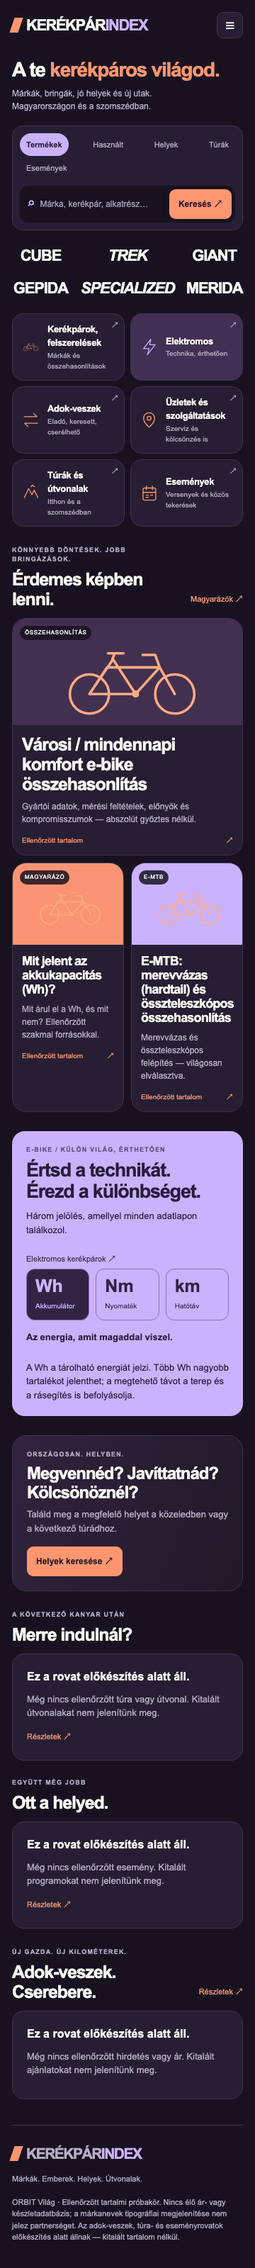
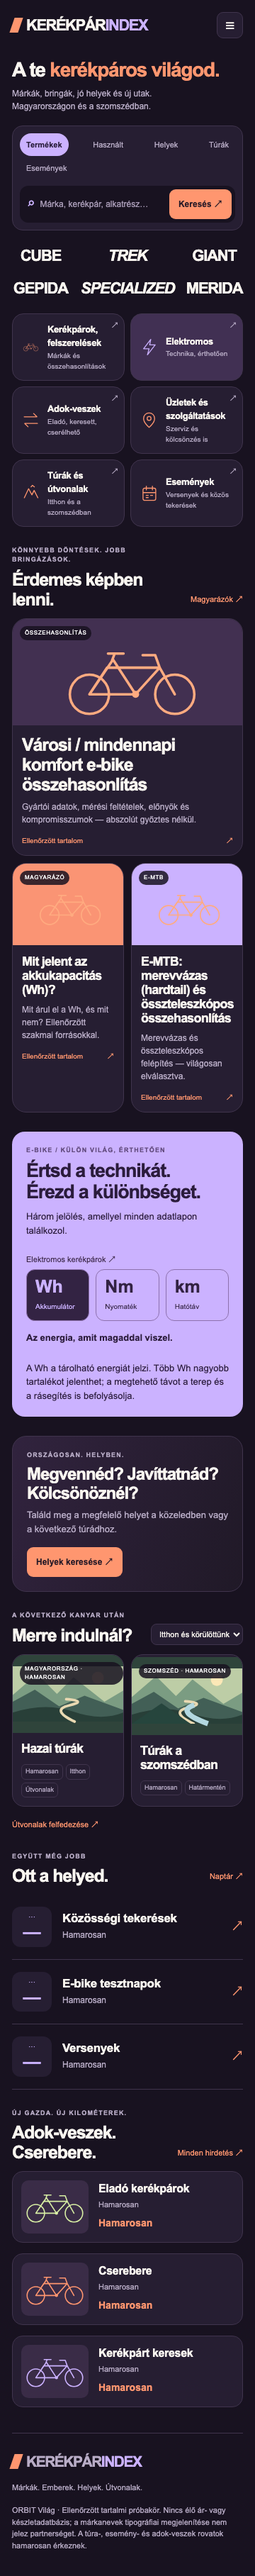
Restore reference bottom shells with Hamarosan placeholders.
Bring back tour cards, event rows, and used-bike cards from ORBIT Világ instead of text panels, keep generic titles without invented dates or prices, and shorten planned-section click feedback.

diff --git a/index.html b/index.html
@@ -81,6 +81,29 @@
             <path d="M11 3v8M22 3v8M5 15h23M10 20h5M18 20h5M10 24h5" />
           </g>
         </symbol>
+        <symbol id="landscape" viewBox="0 0 500 250">
+          <rect width="500" height="250" fill="#bdcda6" />
+          <circle cx="385" cy="52" r="27" fill="#fce8b7" />
+          <path
+            d="M0 130L110 35l90 90 75-75 140 110 85-50v140H0z"
+            fill="#7b9c82"
+          />
+          <path
+            d="M0 160l100-54 110 75 115-48 175 64v53H0z"
+            fill="#425f56"
+          />
+          <path
+            d="M0 209q150-48 275-4t225 4v41H0z"
+            fill="#283f38"
+          />
+          <path
+            d="M280 250q-110-53-25-73t-13-28"
+            fill="none"
+            stroke="#e9d9b2"
+            stroke-width="12"
+            stroke-linecap="round"
+          />
+        </symbol>
       </defs>
     </svg>
 
@@ -353,17 +376,71 @@
                 <div class="eyebrow">A következő kanyar után</div>
                 <h2>Merre indulnál?</h2>
               </div>
+              <label>
+                <span class="sr-only">Útvonalak országa</span>
+                <select class="filter-select" id="country">
+                  <option value="all">Itthon és körülöttünk</option>
+                  <option value="hu">Magyarország</option>
+                  <option value="at">Ausztria</option>
+                </select>
+              </label>
             </div>
-            <div class="planned-panel">
-              <p><strong>Ez a rovat előkészítés alatt áll.</strong></p>
-              <p class="note">
-                Még nincs ellenőrzött túra vagy útvonal. Kitalált útvonalakat
-                nem jelenítünk meg.
-              </p>
-              <button class="text-link" type="button" data-planned="tura">
-                Részletek ↗
+            <div class="routes">
+              <button
+                class="route"
+                type="button"
+                data-country="hu"
+                data-planned="tura"
+              >
+                <div class="art">
+                  <svg><use href="#landscape" /></svg>
+                  <span class="tag">MAGYARORSZÁG · HAMAROSAN</span>
+                </div>
+                <div class="story-body">
+                  <h3>Hazai túrák</h3>
+                  <div class="pills">
+                    <span>Hamarosan</span>
+                    <span>Itthon</span>
+                    <span>Útvonalak</span>
+                  </div>
+                </div>
+              </button>
+              <button
+                class="route"
+                type="button"
+                data-country="at"
+                data-planned="tura"
+              >
+                <div class="art">
+                  <svg viewBox="0 0 500 250">
+                    <use href="#landscape" />
+                    <path d="M0 250l135-92 130 92" fill="#26453d" />
+                    <path
+                      d="M345 250q-150-55-62-85"
+                      stroke="#b3d8e0"
+                      stroke-width="24"
+                      fill="none"
+                    />
+                  </svg>
+                  <span class="tag">SZOMSZÉD · HAMAROSAN</span>
+                </div>
+                <div class="story-body">
+                  <h3>Túrák a szomszédban</h3>
+                  <div class="pills">
+                    <span>Hamarosan</span>
+                    <span>Határmentén</span>
+                  </div>
+                </div>
               </button>
             </div>
+            <button
+              class="text-link"
+              type="button"
+              style="margin-top: 12px"
+              data-planned="tura"
+            >
+              Útvonalak felfedezése ↗
+            </button>
           </section>
           <section id="esemenyek">
             <div class="section-head">
@@ -371,17 +448,34 @@
                 <div class="eyebrow">Együtt még jobb</div>
                 <h2>Ott a helyed.</h2>
               </div>
-            </div>
-            <div class="planned-panel">
-              <p><strong>Ez a rovat előkészítés alatt áll.</strong></p>
-              <p class="note">
-                Még nincs ellenőrzött esemény. Kitalált programokat nem
-                jelenítünk meg.
-              </p>
               <button class="text-link" type="button" data-planned="esemeny">
-                Részletek ↗
+                Naptár ↗
               </button>
             </div>
+            <button class="event" type="button" data-planned="esemeny">
+              <span class="date" aria-hidden="true">···<strong>—</strong></span>
+              <span>
+                <h3>Közösségi tekerések</h3>
+                <p>Hamarosan</p>
+              </span>
+              <span class="arrow" aria-hidden="true">↗</span>
+            </button>
+            <button class="event" type="button" data-planned="esemeny">
+              <span class="date" aria-hidden="true">···<strong>—</strong></span>
+              <span>
+                <h3>E-bike tesztnapok</h3>
+                <p>Hamarosan</p>
+              </span>
+              <span class="arrow" aria-hidden="true">↗</span>
+            </button>
+            <button class="event" type="button" data-planned="esemeny">
+              <span class="date" aria-hidden="true">···<strong>—</strong></span>
+              <span>
+                <h3>Versenyek</h3>
+                <p>Hamarosan</p>
+              </span>
+              <span class="arrow" aria-hidden="true">↗</span>
+            </button>
           </section>
         </div>
 
@@ -392,15 +486,43 @@
               <h2>Adok-veszek. Cserebere.</h2>
             </div>
             <button class="text-link" type="button" data-planned="hasznalt">
-              Részletek ↗
+              Minden hirdetés ↗
             </button>
           </div>
-          <div class="planned-panel">
-            <p><strong>Ez a rovat előkészítés alatt áll.</strong></p>
-            <p class="note">
-              Még nincs ellenőrzött hirdetés vagy ár. Kitalált ajánlatokat nem
-              jelenítünk meg.
-            </p>
+          <div class="used-grid">
+            <button class="used" type="button" data-planned="hasznalt">
+              <span class="used-art"
+                ><svg style="color: #d8efa4">
+                  <use href="#bike" /></svg
+              ></span>
+              <span>
+                <h3>Eladó kerékpárok</h3>
+                <p>Hamarosan</p>
+                <strong>Hamarosan</strong>
+              </span>
+            </button>
+            <button class="used" type="button" data-planned="hasznalt">
+              <span class="used-art"
+                ><svg style="color: #ff966f">
+                  <use href="#bike" /></svg
+              ></span>
+              <span>
+                <h3>Cserebere</h3>
+                <p>Hamarosan</p>
+                <strong>Hamarosan</strong>
+              </span>
+            </button>
+            <button class="used" type="button" data-planned="hasznalt">
+              <span class="used-art"
+                ><svg style="color: #cbb2ff">
+                  <use href="#bike" /></svg
+              ></span>
+              <span>
+                <h3>Kerékpárt keresek</h3>
+                <p>Hamarosan</p>
+                <strong>Hamarosan</strong>
+              </span>
+            </button>
           </div>
         </section>
       </main>
@@ -413,8 +535,8 @@
         <p>
           ORBIT Világ · Ellenőrzött tartalmi próbakör. Nincs élő ár- vagy
           készletadatbázis; a márkanevek tipográfiai megjelenítése nem jelez
-          partnerséget. Az adok-veszek, túra- és eseményrovatok előkészítés
-          alatt állnak — kitalált tartalom nélkül.
+          partnerséget. A túra-, esemény- és adok-veszek rovatok hamarosan
+          érkeznek.
         </p>
       </footer>
     </div>

diff --git a/js/main.js b/js/main.js
@@ -174,22 +174,10 @@
   });
 
   const PLANNED = {
-    hasznalt: {
-      title: "Adok-veszek",
-      body: "Ez a rovat előkészítés alatt áll. Még nincs ellenőrzött hirdetés vagy ár — kitalált ajánlatokat nem jelenítünk meg.",
-    },
-    tura: {
-      title: "Túrák és útvonalak",
-      body: "Ez a rovat előkészítés alatt áll. Még nincs ellenőrzött túra vagy útvonal — kitalált útvonalakat nem jelenítünk meg.",
-    },
-    esemeny: {
-      title: "Események",
-      body: "Ez a rovat előkészítés alatt áll. Még nincs ellenőrzött esemény — kitalált programokat nem jelenítünk meg.",
-    },
-    akcio: {
-      title: "Akciók",
-      body: "Ez a rovat előkészítés alatt áll. Még nincs ellenőrzött akció — kitalált árakat nem jelenítünk meg.",
-    },
+    hasznalt: { title: "Adok-veszek" },
+    tura: { title: "Túrák és útvonalak" },
+    esemeny: { title: "Események" },
+    akcio: { title: "Akciók" },
   };
 
   function brandById(id) {
@@ -214,9 +202,7 @@
     if (!info) return;
     show(
       info.title,
-      "<p><strong>Ez a rovat előkészítés alatt áll.</strong></p><p>" +
-        esc(info.body) +
-        "</p>",
+      "<p><strong>Ez a rovat előkészítés alatt áll.</strong></p>",
       opener
     );
   }
@@ -938,6 +924,16 @@
       showPlanned(key, el);
     });
   });
+
+  const countrySelect = document.getElementById("country");
+  if (countrySelect) {
+    countrySelect.addEventListener("change", function () {
+      const value = countrySelect.value;
+      document.querySelectorAll("[data-country]").forEach(function (el) {
+        el.hidden = value !== "all" && el.dataset.country !== value;
+      });
+    });
+  }
 
   document.querySelectorAll("[data-metric]").forEach(function (btn, index, all) {
     btn.addEventListener("click", function () {

diff --git a/css/main.css b/css/main.css
@@ -23,11 +23,6 @@
 .gateway{min-height:52px}
 }
 
-/* Planned-section shells (visible, no invented listings) */
-.planned-panel{background:var(--panel);border:1px solid var(--line);border-radius:17px;padding:20px}
-.planned-panel p{color:var(--muted);font-size:13px;margin:0 0 10px}
-.planned-panel strong{color:var(--ink);font-size:16px}
-
 /* Content dialog / lists (from Compact wiring, Világ tokens) */
 dialog{overflow:auto}
 dialog h3{font-size:18px;letter-spacing:-.4px;margin:22px 0 10px}

diff --git a/docs/11-ORBIT-VILAG.md b/docs/11-ORBIT-VILAG.md
@@ -15,8 +15,8 @@
 | Túrák és útvonalak | látható · előkészítés alatt |
 | Események | látható · előkészítés alatt |
 
-Az előkészítés alatt álló rovatok kattintáskor: **„Ez a rovat előkészítés alatt áll.”**  
-Kitalált hirdetés, ár, túra vagy esemény nem jelenik meg.
+Az előkészítés alatt álló rovatok a referencia kártya-/sorstruktúrájában jelennek meg („Hamarosan” jelzéssel).  
+Kattintáskor: **„Ez a rovat előkészítés alatt áll.”** — konkrét dátum, ár vagy kitalált listázás nélkül.
 
 ## Keresési területek (5)
 

diff --git a/TEST-RUN-VILAG.md b/TEST-RUN-VILAG.md
@@ -20,3 +20,4 @@ Result: **PASS**
 - `screenshots/orbit-vilag/vilag-mobile-full.png`
 - `screenshots/orbit-vilag/vilag-desktop-full.png`
 - `screenshots/orbit-vilag/vilag-desktop-places-dialog.png`
+- `screenshots/orbit-vilag/vilag-desktop-planned-dialog.png`
